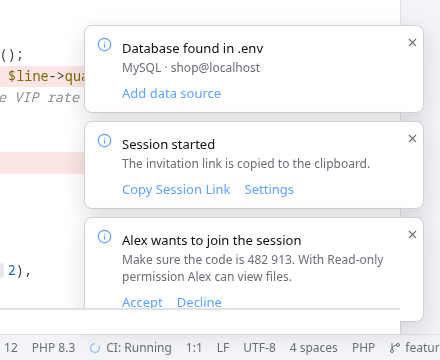
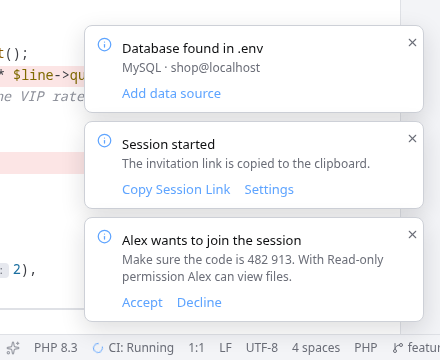
feat: show balloons above the editor's breadcrumbs panel

diff --git a/app/ui/src/features/navigation/navigation.css b/app/ui/src/features/navigation/navigation.css
@@ -325,7 +325,9 @@ mark.hl {
   position: fixed;
   right: 16px;
   bottom: calc(var(--statusbar-h) + 12px);
-  z-index: 200;
+  /* Above CodeMirror's sticky editor panels (z-index 300: breadcrumbs, banners) and the tool
+     windows, below modal dialogs (350). The same layer as the Git balloons (git.css). */
+  z-index: 340;
   display: flex;
   flex-direction: column;
   gap: 8px;

diff --git a/app/ui/src/features/git/git.css b/app/ui/src/features/git/git.css
@@ -839,7 +839,8 @@
   position: fixed;
   right: 16px;
   bottom: calc(var(--statusbar-h) + 12px);
-  z-index: 110;
+  /* Above CodeMirror's sticky editor panels (z-index 300), like navigation.css's balloons. */
+  z-index: 340;
   display: grid;
   gap: 8px;
   width: 340px;
